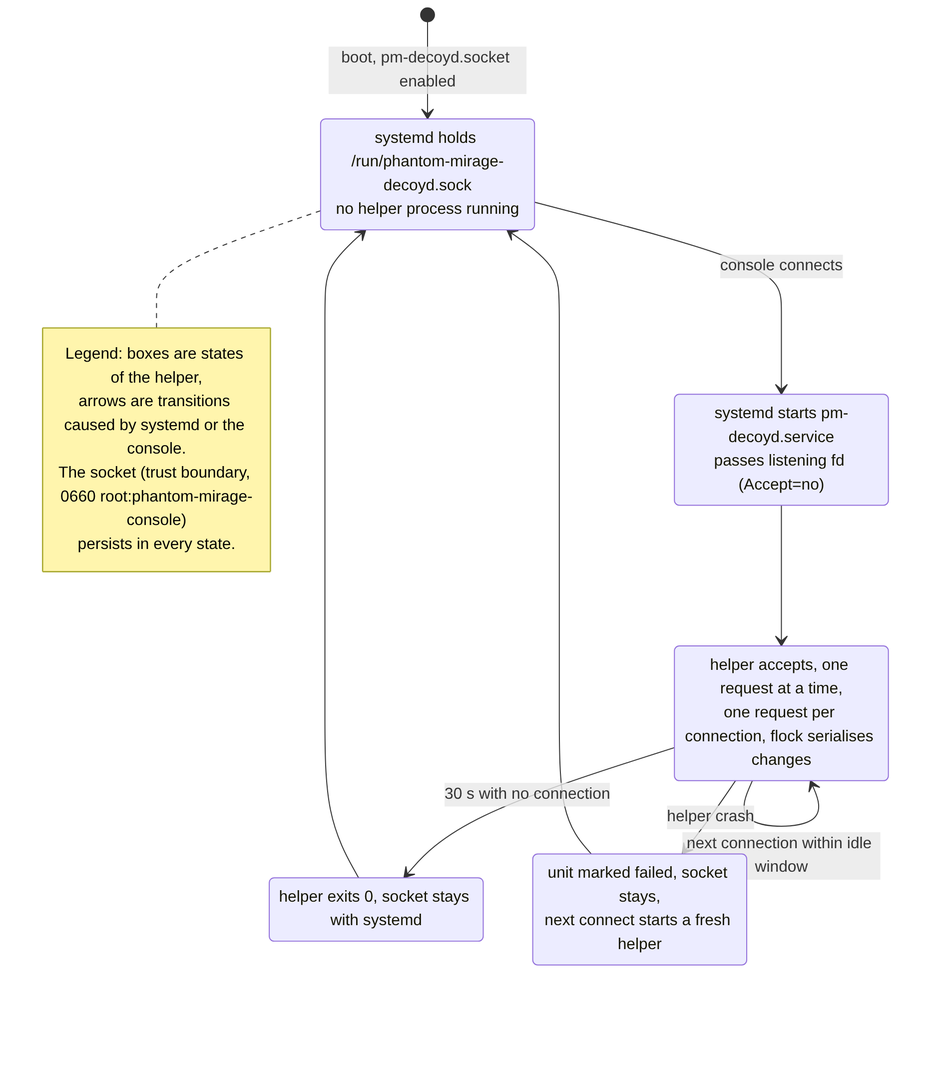
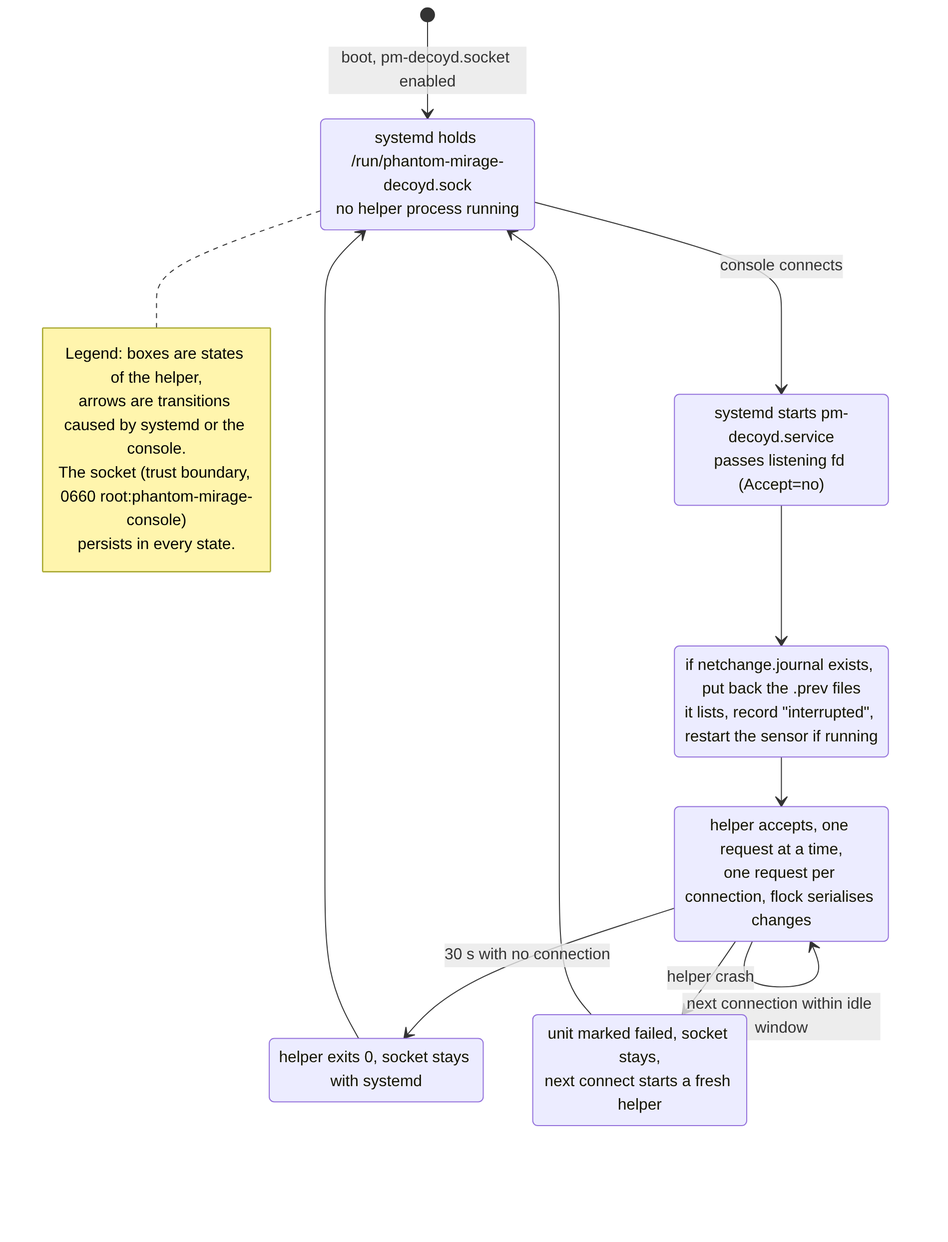
Decoy design: update to PR 256 head 55c914d
Match the doc to the code at 55c914d: the delete op is now reset,
E_RATE_LIMIT is gone and changes queue up to 10 s, the firewall is
reloaded (not restarted) after the sensor, then farpd, each only if
active. Document the netchange journal and outcome record, last_change
in netinfo, the 5 minute wait in the UI, recovery by removing
decoys.json, daemon-reload when a unit needs it, and the console logo
changes. Record one manual real host test by the project owner. Update
diagrams 01, 03, 05, 06 and 07, the test plan and open questions.

diff --git a/docs/design/decoy-management.md b/docs/design/decoy-management.md
@@ -1,12 +1,12 @@
 # Decoy management from the console: design
 
-**Status.** Design document, updated to match the code on branch feat/decoy-settings (draft PR 256, head 8a4cbe6, not merged). Where this document says "implemented", it means implemented on that branch only. Nothing here is on master. Each section says what is built, what is tested offline, and what has not been tried on a real systemd host.
+**Status.** Design document, updated to match the code on branch feat/decoy-settings (draft PR 256, head 55c914d, not merged). Where this document says "implemented", it means implemented on that branch only. Nothing here is on master. Each section says what is built, what is tested offline, and what has not been tried on a real systemd host.
 
 Labels used below:
 
 - **Implemented (PR 256)**: the code exists on feat/decoy-settings, draft PR 256, not merged.
-- **Tested offline**: covered by unit or shell tests that run without systemd, using a fake `systemctl`, a fake daemon and temp directories. I ran these tests on PR 256 head 8a4cbe6: decoyd/tests 56 tests pass (3 skipped), console/tests 137 tests pass, ci/test_decoys_include.sh and ci/test_decoyd_socket.sh pass.
-- **Untested on a real host**: nothing in PR 256 has been seen working under real systemd, with a real socket, real reload or restart, or on a real LAN.
+- **Tested offline**: covered by unit or shell tests that run without systemd, using a fake `systemctl`, a fake daemon and temp directories. I ran these tests on PR 256 head 55c914d: decoyd/tests 65 tests pass (3 skipped), console/tests 141 tests pass, ci/test_decoys_include.sh and ci/test_decoyd_socket.sh pass.
+- **Untested on a real host**: not tried under real systemd, with a real socket, real reload or restart, or on a real LAN. The one exception is a single manual test by the project owner, described in section 9; it is not a test matrix.
 - **Not started**: no code yet.
 
 ## In short
@@ -18,7 +18,9 @@ Labels used below:
 - If a change would break the sensor, the helper refuses it, or puts the old files back and restarts the sensor.
 - A decoy change reloads all decoys, so anyone connected to any decoy at that moment is cut off. An address block change restarts the whole sensor.
 - Deleting a decoy is not started. It is a later slice.
-- All of this passes its offline tests. None of it has been tried on a real sensor host yet.
+- An address block change restarts the sensor, then reloads the firewall (it no longer restarts it, which dropped the console) and restarts farpd, each only if running. If the browser loses the connection, the console waits up to 5 minutes and then shows whether the change was applied or rolled back.
+- If decoys.conf was edited by hand, the console refuses to overwrite it and tells you to run `sudo rm /var/lib/phantom-mirage/decoys.json` on the sensor.
+- All of this passes its offline tests. One manual test by the project owner on one test machine changed the address block and the sensor came up. Nothing else has been tried on a real sensor host.
 
 ## 1. Overview (plain words)
 
@@ -39,7 +41,7 @@ Labels used below:
 - You no longer need to edit files on the sensor for these tasks.
 - Every change asks for your password again.
 - A decoy change takes a few seconds and reloads every decoy, cutting any connection open to any decoy at that moment.
-- An address block change restarts the sensor, and restarts farpd and the firewall if they are running. Settings for decoys that fall outside the new block are dropped, and the console tells you which.
+- An address block change restarts the sensor, and then reloads the firewall and restarts farpd if they are running. Settings for decoys that fall outside the new block are dropped, and the console tells you which.
 - A stopped decoy goes quiet, but other machines can still see that something owns the address.
 
 **What does not change.**
@@ -109,7 +111,7 @@ flowchart TB
   HLP -- "8 systemctl reload (decoy ops)<br/>restart (set_network)" --> SD
   SD -- "9 HUP or restart" --> PM
   SD -- "set_network: restart if active" --> FARP
-  SD -- "set_network: restart if active" --> FW
+  SD -- "set_network: reload if active" --> FW
   HLP -- "10 JSON reply" --> CON
   classDef priv fill:#fde2e2,stroke:#b00
   classDef low fill:#e2f0fd,stroke:#036
@@ -139,6 +141,8 @@ Source: [img/src/01-architecture.mmd](img/src/01-architecture.mmd)
 | `/usr/share/phantom-mirage/decoy-services.json` | 25 services, each an id, label, proto, port and a plain action `open`. No scripts. | Implemented (PR 256) |
 | `/var/lib/phantom-mirage/decoys.json` | Helper store: `{v:1, overrides:{ip:{rev, state, decoy}}, conf_sha256}`, root 0600 | Implemented (PR 256) |
 | `/etc/phantom-mirage/decoys.conf` | Generated from the store, root 0644, with `decoys.conf.prev` kept | Implemented (PR 256) |
+| `/var/lib/phantom-mirage/netchange.journal` | Written by set_network after the `.prev` copies and before the first file is replaced; lists each file, whether it existed and its mode; removed when the change ends. If found at helper start or at the start of any change, the listed files are put back from `.prev` (or removed if they did not exist), the outcome `interrupted` is recorded and the sensor restarted if active. Paths outside the four fixed files are refused. Mode 0600. | Implemented (PR 256), tested offline |
+| `/var/lib/phantom-mirage/netchange.last` | Outcome of the last set_network: `id`, `result` (applied, applied_not_running, rolled_back, rollback_failed, interrupted), `network`, `interface`, `previous`, `dropped`, `time`. Returned by netinfo as `last_change`. Not written when a change is refused before any file changes. Mode 0644. | Implemented (PR 256), tested offline |
 
 ### Trust boundaries
 
@@ -153,7 +157,7 @@ Source: [img/src/01-architecture.mmd](img/src/01-architecture.mmd)
 Two things differ from the first draft of this design:
 
 - There is **no** `PrivateNetwork`, and `CAP_NET_RAW` is kept, because `--verify-config` opens the interface. Network access is limited by `IPAddressDeny=any` instead.
-- `/etc/default` is writable as a whole directory, because set_network rewrites `/etc/default/phantom-mirage` and maybe `/etc/default/farpd`.
+- `/etc/default` is writable as a whole directory, because set_network rewrites `/etc/default/phantom-mirage` and maybe `/etc/default/farpd`. This was already in the unit at 8a4cbe6; it is not new in 55c914d.
 
 Whether this unit can really run `systemctl reload` and `restart`, and open the interface for verify, under these settings has **not** been checked on a real host.
 
@@ -165,7 +169,7 @@ The main config keeps its hand written templates and binds and gains one line, `
 - **Stopped:** template `pm_s_<ip>` with `default tcp`, `udp` and `icmp action block` and no personality and no ports.
 - Then `bind <ip> <template>`.
 
-The helper keeps the sha256 of the text it last wrote. If decoys.conf on disk no longer matches, every change except reset_all is refused with `E_CONFLICT` until you reset all overrides.
+The helper keeps the sha256 of the text it last wrote. If decoys.conf on disk no longer matches, every change except reset_all (and set_network too) is refused with `E_CONFLICT`. The message tells you to drop the hand edits and all console decoy settings by running `sudo rm /var/lib/phantom-mirage/decoys.json` on the sensor and trying again. With no store there is no hash to compare, so the next change rewrites decoys.conf. reset_all also clears the conflict but is still not in the console UI.
 
 ## 4. Data flow diagrams
 
@@ -217,9 +221,10 @@ flowchart TD
   B -- no --> X1["E_PEER, nothing written"]
   B -- yes --> C{"Envelope, replay,<br/>lock within 25 s?"}
   C -- no --> X2["E_BAD_JSON / E_REPLAY / E_BUSY ...<br/>nothing written"]
-  C -- yes --> W["Wait out the 10 s gap<br/>since the last reload"]
+  C -- yes --> RJ["Recover an interrupted address block<br/>change if netchange.journal exists"]
+  RJ --> W["Queue: wait out the rest of the 10 s gap<br/>since the last reload (at most 10 s)"]
   W --> CF{"decoys.conf hash<br/>matches store?"}
-  CF -- no --> X5["E_CONFLICT, reset all to continue"]
+  CF -- no --> X5["E_CONFLICT (not for reset_all):<br/>message says sudo rm decoys.json"]
   CF -- yes --> D{"Op and field<br/>validation ok?"}
   D -- no --> X3["E_INVALID_* / E_ADDRESS_* / E_CONFLICT,<br/>nothing written"]
   D -- yes --> E["Render decoys.conf.new"]
@@ -297,7 +302,9 @@ stateDiagram-v2
   Listening: systemd holds /run/phantom-mirage-decoyd.sock<br/>no helper process running
   Listening --> Starting: console connects
   Starting: systemd starts pm-decoyd.service<br/>passes listening fd (Accept=no)
-  Starting --> Serving
+  Starting --> Recovering
+  Recovering: if netchange.journal exists, put back the .prev files<br/>it lists, record "interrupted", restart the sensor if running
+  Recovering --> Serving
   Serving: helper accepts, one request at a time,<br/>one request per connection, flock serialises changes
   Serving --> Serving: next connection within idle window
   Serving --> Exiting: 30 s with no connection
@@ -328,32 +335,43 @@ sequenceDiagram
   actor U as Admin (browser)
   participant C as Console (phantom-mirage-console)
   participant H as pm-decoyd (root, via socket)
-  participant F as Files (/etc/default, /etc/phantom-mirage, decoys.json)
+  participant F as Files (/etc/default, /etc/phantom-mirage, /var/lib/phantom-mirage)
   participant P as phantom-mirage.service
-  participant X as farpd + firewall units
+  participant X as firewall + farpd units
   Note over U,X: Legend: trust boundaries are browser | console (low privilege) | socket + helper (root) | files | sensor units. Solid arrow = request or action, dashed arrow = response. Example block 192.0.2.0/28 is a documentation range. The real helper accepts private ranges only.
   U->>C: Network section: new block, interface, password
-  C->>C: session, CSRF, password check with back off, audit "requested"
+  C->>C: session, CSRF, password check with back off, audit "requested", remember pending change in the browser
   C->>H: set_network {network, interface, expect:{network, interface}} (240 s timeout)
-  H->>H: peer uid, envelope, flock, 10 s gap
+  H->>H: peer uid, envelope, flock (25 s), recover journal if present, queue up to 10 s
   H->>F: read NETWORK and INTERFACE, compare with expect (else E_CONFLICT)
   H->>H: ip -j -4 addr / route: interfaces, LANs, gateways
   H->>H: check block: CIDR, at most /24, private, on LAN of interface,<br/>no own address, no gateway, no LAN network or broadcast
   H->>H: drop overrides outside the new block, render decoys.conf
-  H->>F: rewrite NETWORK= and INTERFACE= lines (farpd file only with setup marker)
   H->>H: --verify-config with new interface and block (else E_VERIFY_FAILED, nothing written)
-  H->>F: keep .prev of every file, replace each file
+  H->>F: keep .prev of every file, write netchange.journal, replace each file
   alt sensor not active
-    H->>X: restart firewall (and farpd if rewritten) only if active
+    H->>F: remove journal, write netchange.last "applied_not_running"
+    H->>X: reload firewall, then restart farpd if rewritten, each only if active
     H-->>C: ok, restarted:false, sensor left stopped
   else sensor active
+    H->>H: daemon-reload only if a unit reports NeedDaemonReload
     H->>P: systemctl restart phantom-mirage
     H->>P: active within 20 s, then active after 3 s settle
-    H->>X: restart firewall (and farpd if rewritten) only if active
+    H->>F: remove journal, write netchange.last "applied"
+    H->>X: reload firewall (never restart, the console Requires it), then restart farpd if rewritten, each only if active
     H-->>C: ok, network, interface, dropped, warnings
   end
-  C->>C: audit "applied, dropped settings for ..."
-  C-->>U: new block shown
+  alt reply arrives
+    C->>C: audit "applied, dropped settings for ..."
+    C-->>U: new block shown
+  else connection lost (no status, 502, 503, 504, E_TIMEOUT, E_UNAVAILABLE)
+    loop every 3 s, at most 5 minutes
+      U->>C: GET /api/decoyd/netinfo
+      C->>H: netinfo
+      H-->>C: last_change from netchange.last
+    end
+    C-->>U: applied, rolled back, rollback failed or interrupted, read from last_change
+  end
 ```
 
 ![06-set-network](img/06-set-network.png)
@@ -367,30 +385,32 @@ Implemented (PR 256). Offline tests check that a failed restart puts every file 
 ```mermaid
 flowchart TD
   A(["set_network passed every check<br/>and --verify-config"]) --> B["Keep .prev of /etc/default/phantom-mirage,<br/>decoys.conf, decoys.json, farpd file if marked"]
-  B --> C{"All files replaced?"}
-  C -- "no (OSError)" --> R0["Restore every file,<br/>E_INTERNAL, nothing changed"]
+  B --> J["Write netchange.journal<br/>(list of files)"]
+  J --> C{"All files replaced?"}
+  C -- "no (OSError)" --> R0["Restore every file, remove journal,<br/>E_INTERNAL, nothing changed"]
   C -- yes --> SA{"Sensor was active?"}
-  SA -- no --> OK0["Restart firewall and farpd if active,<br/>ok, sensor left stopped"]
-  SA -- yes --> D["systemctl restart phantom-mirage"]
+  SA -- no --> OK0["Remove journal, record applied_not_running,<br/>reload firewall then restart farpd if active,<br/>ok, sensor left stopped"]
+  SA -- yes --> DR["daemon-reload if a unit<br/>needs it"]
+  DR --> D["systemctl restart phantom-mirage"]
   D --> E{"rc 0, active within 20 s,<br/>still active after 3 s?"}
-  E -- yes --> OK1["Restart firewall and farpd if active<br/>(failure is a warning), ok"]
-  E -- no --> F["Restore EVERY file first<br/>(old block, old decoys, old store)"]
+  E -- yes --> OK1["Remove journal, record applied,<br/>reload firewall then restart farpd if active<br/>(failure is a warning), ok"]
+  E -- no --> F["Restore EVERY file first<br/>(old block, old decoys, old store),<br/>remove journal"]
   F --> G["systemctl restart phantom-mirage"]
-  G --> AUX["Restart firewall and farpd if active"]
-  AUX --> H{"Active within 20 s?"}
-  H -- yes --> N["E_RESTART_FAILED_ROLLED_BACK,<br/>old block serving"]
-  H -- no --> O["E_ROLLBACK_FAILED,<br/>sensor DOWN, see journal"]
+  G --> H{"Active within 20 s?"}
+  H -- yes --> N["Record rolled_back, reload firewall then<br/>restart farpd if active,<br/>E_RESTART_FAILED_ROLLED_BACK"]
+  H -- no --> O["Record rollback_failed, same aux step,<br/>E_ROLLBACK_FAILED, sensor DOWN"]
+  K(["Helper killed mid swap"]) --> KR["Next helper start or next change:<br/>journal found, put back .prev files,<br/>record interrupted, restart sensor if active"]
   classDef bad fill:#fde2e2,stroke:#b00
   classDef good fill:#e3f6e3,stroke:#060
   classDef warn fill:#fff4d6,stroke:#a60
-  class R0,N warn
+  class R0,N,KR warn
   class O bad
   class OK0,OK1 good
   subgraph LEG["Legend"]
     LG1["Green: new block applied"]:::good
-    LG2["Amber: rolled back, old block in place"]:::warn
+    LG2["Amber: rolled back or recovered, old block in place"]:::warn
     LG3["Red: sensor down, manual action needed"]:::bad
-    LG4["Every box runs in the root helper behind the socket trust boundary.<br/>Arrows: order of steps, labelled with the outcome."]
+    LG4["Every box runs in the root helper behind the socket trust boundary.<br/>Arrows: order of steps, labelled with the outcome.<br/>Outcome records go to netchange.last, read by netinfo as last_change."]
   end
 ```
 
@@ -419,16 +439,16 @@ Reply: `{"v":1, "id", "ok":true|false, "reloaded":bool, "rolled_back":bool, "res
 |---|---|---|---|
 | `list` | none | `network`, and one entry per address with `source` override, default or main_conf | Implemented |
 | `options` | none | personalities, states, services (id, label, proto, port), `max_ports` 64 | Implemented |
-| `netinfo` | none | current network and interface, interfaces with addresses, gateways, `min_prefix` 24 | Implemented |
+| `netinfo` | none | current network and interface, interfaces with addresses, gateways (each listed once, sorted), `last_change` (the outcome record or null), `min_prefix` 24 | Implemented |
 | `add` | `decoy` | `ip`, `state` running, `rev` 1 | Implemented |
 | `edit` | `decoy`, `expect_rev` (required) | new `rev` | Implemented |
 | `stop` | `ip`, `expect_rev` if an override exists | `state` stopped, `arp` "still_answered" | Implemented |
 | `start` | `ip`, `expect_rev` | running; a stop on a default decoy is simply removed | Implemented |
-| `delete` | `ip`, `expect_rev` | removes the override so the address is back on the default template | Implemented as "reset to default" only, see note |
+| `reset` | `ip`, `expect_rev` | removes the override so the address is back on the default template | Implemented (renamed from `delete` in f09ce88) |
 | `reset_all` | `confirm` = "reset-all" | `overrides` 0 | Implemented in the helper; not exposed in the console UI as far as I could see |
 | `set_network` | `network`, `interface`, `expect:{network, interface}` | `network`, `interface`, `dropped`, `farpd`, `restarted`, maybe `warnings` | Implemented |
 
-**Note on `delete`.** The helper op called `delete` removes a decoy's own settings. The console uses it for the "Use default template" button. It does **not** take an address out of service. Deleting a decoy in that sense is not started (section 10). The op name is confusing and is listed as an open question.
+**Note on `reset`.** The op formerly called `delete` is now `reset` in the helper, the client and the console. The console uses it for the "Use default template" button. It does **not** take an address out of service. There is no `delete` op any more; deleting a decoy in that sense is not started (section 10).
 
 A `decoy` object has exactly `ip`, `personality` (a name or null), `defaults` `{tcp, udp, icmp}` and `ports`, a list of `{proto, port, state}` or `{proto, port, service}`.
 
@@ -438,7 +458,7 @@ A `decoy` object has exactly `ip`, `personality` (a name or null), `defaults` `{
 |---|---|---|
 | Transport (client side) | `E_UNAVAILABLE`, `E_TIMEOUT`, `E_BAD_REPLY` | 503 |
 | Envelope | `E_PEER` (500), `E_BAD_JSON`, `E_VERSION`, `E_UNKNOWN_FIELD`, `E_MISSING_FIELD`, `E_TYPE`, `E_REPLAY`, `E_UNKNOWN_OP` | 400 unless shown |
-| Queue | `E_BUSY` (lock not free within 25 s), `E_RATE_LIMIT` | 429 |
+| Queue | `E_BUSY` (lock not free within 25 s) | 429 |
 | Decoy validation | `E_INVALID_ADDRESS`, `E_ADDRESS_OUTSIDE_NETWORK`, `E_ADDRESS_RESERVED`, `E_ADDRESS_IN_MAIN_CONF`, `E_INVALID_PERSONALITY`, `E_INVALID_STATE`, `E_INVALID_PORT`, `E_INVALID_SERVICE`, `E_TOO_MANY_PORTS` | 400 |
 | State | `E_CONFLICT`, `E_EXISTS`, `E_NOT_FOUND`, `E_NOT_RUNNING`, `E_NOT_STOPPED`, `E_UNCHANGED` | 409 |
 | Network validation | `E_INVALID_NETWORK`, `E_NETWORK_TOO_WIDE`, `E_NOT_PRIVATE`, `E_INVALID_INTERFACE`, `E_NOT_ON_LAN`, `E_HOST_ADDRESS`, `E_GATEWAY`, `E_LAN_EDGE` | 400 |
@@ -446,7 +466,7 @@ A `decoy` object has exactly `ip`, `personality` (a name or null), `defaults` `{
 
 The console itself answers 403 for a wrong password, 423 while backing off after wrong passwords, and 400 `E_ADDRESS_RESERVED` for a network or broadcast address.
 
-`E_RATE_LIMIT` is only raised if the wait would exceed 25 s. With a 10 s gap the helper normally just waits, so in practice it should not appear.
+`E_RATE_LIMIT` is removed from the helper, the console status mapping and the UI messages. A change that comes within 10 s of the last reload now waits out the rest of that gap, never more than 10 s even if the clock moved back. This 10 s is on top of the wait for the lock, which can still take up to 25 s and give `E_BUSY`.
 
 ## 6. Validation rules (as coded)
 
@@ -471,7 +491,7 @@ Documentation example addresses (192.0.2.0/24, 198.51.100.0/24, 203.0.113.0/24) 
 
 ## 7. Failure handling and rollback
 
-Decoy changes (section 4.2)
+Decoy changes (section 4.2). Before anything else, a leftover `netchange.journal` is recovered (section 3) and the 10 s queue wait runs.
 
 1. Write `decoys.conf.new` with `O_EXCL|O_NOFOLLOW`, fsync.
 2. Verify: copy the main config to `/etc/phantom-mirage/.pm-decoyd-verify.conf` with its one include line pointing at `.new`, then run `phantom-mirage --verify-config -f <temp> -p columbo-v1.db` with the same data files and interface and block. Failure deletes `.new` and gives `E_VERIFY_FAILED` with the parser's first useful line.
@@ -483,12 +503,15 @@ Decoy changes (section 4.2)
 Address block change (section 4.6)
 
 1. All checks and `--verify-config` with the new interface and block run before any file is written.
-2. Keep `.prev` of `/etc/default/phantom-mirage`, decoys.conf, decoys.json and the farpd file if it is rewritten, then replace each. A write error restores all files and gives `E_INTERNAL`.
-3. A stopped sensor is left stopped. The firewall and farpd are restarted only if active.
-4. Otherwise restart the sensor, wait up to 20 s for active and check again after 3 s. Then restart the firewall and farpd if active; failures there are warnings.
-5. On failure restore **every** file first, then restart the sensor and the helper units, giving `E_RESTART_FAILED_ROLLED_BACK` or `E_ROLLBACK_FAILED`.
+2. Keep `.prev` of `/etc/default/phantom-mirage`, decoys.conf, decoys.json and the farpd file if it is rewritten, write `netchange.journal`, then replace each. A write error restores all files, removes the journal and gives `E_INTERNAL` (no outcome is recorded for this case).
+3. A stopped sensor is left stopped; the outcome `applied_not_running` is recorded.
+4. Otherwise run `systemctl daemon-reload` if the sensor or firewall unit reports `NeedDaemonReload=yes` (the helper never writes unit files; this covers a unit changed on disk without a reload), restart the sensor, wait up to 20 s for active and check again after 3 s. The outcome `applied` is recorded.
+5. On failure restore **every** file first, remove the journal, restart the sensor, wait up to 20 s, and record `rolled_back` or `rollback_failed`, giving `E_RESTART_FAILED_ROLLED_BACK` or `E_ROLLBACK_FAILED`.
+6. In every case above after the swap, the aux step runs: the firewall is **reloaded** (`ExecReload` runs `pm-firewall apply`) and then farpd is restarted if its file was rewritten, each only if it is already active. Failures there are warnings. The firewall is not restarted because `phantom-mirage-console.service` has `Requires=phantom-mirage-firewall.service`, so a restart also restarted the console and cut the request and every session.
 
-The file swap is a series of single file renames, not one atomic step across files. A crash part way through could leave a mix; `.prev` copies are there for manual recovery. This has not been tested.
+The daemon-reload check runs only before the first restart in step 4. It does not run before a decoy reload, before the rollback restart, or for the farpd unit.
+
+The file swap is still a series of single file renames, not one atomic step. A crash part way through is now covered by the journal: the next helper start or change puts the `.prev` set back and records `interrupted`. Journal recovery restarts only the sensor, not the firewall or farpd. This is tested offline only (a simulated crash mid swap).
 
 ## 8. Threat model
 
@@ -499,31 +522,41 @@ The file swap is a series of single file renames, not one atomic step across fil
 | Injection into config | Template names built from the address; personality and actions checked against fixed lists; only `NETWORK=` and `INTERFACE=` lines rewritten with validated values | A malicious entry in the service list or personality file would be used; both are root owned and the db is sha256 pinned. |
 | Symlink and race on swap | `O_EXCL|O_NOFOLLOW`, rename in the same directory, refuses non root owned or symlinked config | `/etc/default` is writable to the helper as a whole directory. |
 | Socket permissions | 0660 root:phantom-mirage-console, `SO_PEERCRED` | Anything running as the console user is trusted the same. |
-| Denial of service by reloads | flock, 10 s gap between reloads | The console can still reload every 10 s or restart the sensor with set_network. |
+| Denial of service by reloads | flock, changes queue behind a 10 s gap between reloads | The console can still reload every 10 s or restart the sensor with set_network. |
 | Replay | `ts` window 60 s, `id` kept 600 s on /run, `expect_rev` and `expect` | Mainly stops double submits. |
 | Address block moved onto live hosts | Must be private, at most /24, on the LAN of the interface, no own address, no gateway, no LAN edge | **No probe for other live hosts in the new block.** farpd would answer ARP for them. This is the biggest open risk of set_network. |
 | Bad config takes sensor down | Verify first, health check, restore before restart | If the restored files also fail, the sensor stays down: `E_ROLLBACK_FAILED`. |
-| Manual edit of decoys.conf | Hash check, `E_CONFLICT` until reset_all | reset_all is not in the console UI, so recovery needs the shell. |
+| Manual edit of decoys.conf | Hash check, `E_CONFLICT`; the message names `sudo rm /var/lib/phantom-mirage/decoys.json` | Recovery needs a shell on the sensor and drops every console decoy setting, not only the hand edits. |
 | Audit gaps | Console audit requested, applied or refused, with dropped addresses; helper logs request, decision and diff to syslog | Console audit can be altered by a compromised console; the journal copy is stronger. |
 
 ## 9. Test plan and what has been run
 
-Run offline on PR 256 head 8a4cbe6 (by me, for this update)
+Run offline on PR 256 head 55c914d (by me, for this update)
 
-- `python3 -m unittest discover -s decoyd/tests`: 56 tests, all pass, 3 skipped. The 3 skipped are `TestRealVerify` (golden output passes, bad personality fails, duplicate bind fails) which need root and the built daemon. CI in PR 256 runs them with `PM_REAL_DAEMON`; I did not see a CI result.
-- `python3 -m unittest discover -s console/tests`: 137 tests pass, including password re-entry, CSRF, set_network, the longer timeout, wrong password back off, and the reserved rows without icons.
+- `python3 -m unittest discover -s decoyd/tests`: 65 tests, all pass, 3 skipped. The 3 skipped are `TestRealVerify` which need root and the built daemon. New tests cover the outcome record and `last_change`, rolled back and failed outcomes, no outcome on refusal, daemon-reload only when stale, gateways listed once, queueing behind the interval, firewall then farpd order, crash mid swap recovered on the next change, journal refusing foreign paths, and no journal left after success or rollback.
+- `python3 -m unittest discover -s console/tests`: 141 tests pass, including the `reset` op, `last_change` after a change, and the UI reading the outcome after a lost connection (simulated).
 - `ci/test_decoys_include.sh` and `ci/test_decoyd_socket.sh`: pass.
+- Forge reports CI green on f09ce88, 4d65ef0 and 55c914d. I did not open the CI runs myself.
 
-What the offline tests cover: validation tables, envelope and replay, rendering, the decoy change pipeline and its rollbacks, network validation, set_network success and rollback, socket peer checks with a socket pair. All with a fake `systemctl`, fake `ip` output and a fake daemon.
+What the offline tests cover: validation tables, envelope and replay, rendering, the decoy change pipeline and its rollbacks, network validation, set_network success, rollback, outcome record and journal recovery, socket peer checks with a socket pair. All with a fake `systemctl`, fake `ip` output and a fake daemon.
+
+One manual test on a real host (reported by the project owner, not repeated by me)
+
+- On one test machine the project owner changed the address block from the console (for example from 192.0.2.0/28 to 192.0.2.16/28; the real addresses are not given here). The change applied and the sensor came up on the new block.
+- During that change the console dropped. That was the firewall restart taking the console with it; the code now reloads the firewall instead. The fixed version has not been retested on a real host as far as I know.
+- This is one manual run of one path. It is not a real systemd test matrix.
 
 Still needed, only on a real systemd host
 
 - Socket activation, socket owner and mode, `SO_PEERCRED` from the real console user, idle exit.
-- Whether the hardened unit can call `systemctl reload` and `restart` and open the interface for verify.
-- Real reload and real restart, including `ExecStartPre` checks during rollback.
+- Whether the hardened unit can call `systemctl reload`, `restart` and `daemon-reload` and open the interface for verify. The one manual run suggests restart works for set_network; nothing else is shown.
+- Real decoy reload and its rollback, and real restart rollback, including `ExecStartPre` checks.
+- Firewall reload keeping the console and its sessions up during set_network (the fix after the manual test).
+- The console's 5 minute wait after a lost connection, against a real restart.
+- Journal recovery after a real crash or kill mid swap.
 - Stopped decoy behaviour on a real LAN: no reply while a neighbour answers, ARP still answered.
-- set_network on a real host: farpd and firewall restart, ARP for the new block, old block released.
-- Package install and upgrade: the include line and the socket enable on a real system. PR 256 adds package content checks to CI; I did not see a result.
+- farpd restart and ARP for the new block, old block released.
+- Package install and upgrade: the include line and the socket enable on a real system.
 
 ## 10. Build slices
 
@@ -532,8 +565,9 @@ Still needed, only on a real systemd host
 | 1 Read only groundwork | Personality list, per decoy detail panel, `parse_decoys` keeps port states | Implemented (PR 256) |
 | 2 Helper and include | pm-decoyd, socket and service units, include script, service list | Implemented (PR 256), tested offline |
 | 3 Stop and start | Stop and Start icons per row; none on network and broadcast rows | Implemented (PR 256), tested offline |
-| 4 Settings panel | Personality, default actions, port table, "Use default template" | Implemented (PR 256), tested offline |
-| 5 Network section | Change address block and interface (set_network) | Implemented (PR 256), tested offline |
+| 4 Settings panel | Personality, default actions, port table, "Use default template" (op `reset`). The panel note now says the address block is changed in the Network section, and that addresses bound in phantom-mirage.conf are changed there. | Implemented (PR 256), tested offline |
+| 5 Network section | Change address block and interface (set_network), outcome after a lost connection | Implemented (PR 256), tested offline, one manual real host run |
+| Console look (55c914d) | Product logo wordmark (vector, follows the theme) in the header and on the sign in page, MIRAGE centred in the sidebar, gateways listed once | Implemented (PR 256), tested offline (branding tests) |
 | 6 Delete a decoy | Take an address out of service | **Not started.** Later slice, one change at a time. |
 
 Every slice still needs security review sign off and a real host test before merge.
@@ -553,15 +587,19 @@ Decided
 Still open
 
 1. **Delete a decoy**: what it means (stop and hide, remove from the block, or shrink the block) and when. Not started.
-2. **Name of the `delete` op**: it only resets a decoy to default. Rename it (for example to `reset`) before a real delete exists?
-3. **Live host probe for set_network**: there is no check that the new block is free of real hosts.
-4. **Wide and multiple blocks**: the console allows one private block of /24 or smaller only. Should `ALLOW_WIDE_NETWORK` ever be offered?
-5. **reset_all in the UI**: the only way out of `E_CONFLICT` is reset_all, which the console UI does not offer.
-6. **`/etc/default` write access**: the helper can write the whole directory. Could it be narrowed to the two files?
-7. **Multi file swap**: not atomic across files.
-8. **Display label** for a decoy.
+2. **Live host probe for set_network**: there is no check that the new block is free of real hosts.
+3. **Wide and multiple blocks**: the console allows one private block of /24 or smaller only. Should `ALLOW_WIDE_NETWORK` ever be offered?
+4. **Recovery from a hand edited decoys.conf**: `sudo rm decoys.json` drops every console setting. Is a gentler path wanted, for example reset_all in the UI?
+5. **`/etc/default` write access**: the helper can write the whole directory. Could it be narrowed to the two files?
+6. **Journal recovery scope**: it restarts the sensor only, not the firewall or farpd, and a write error before the restart records no outcome.
+7. **Display label** for a decoy.
 
 Resolved since the first draft
 
 - The `parse_decoys` bug on master (it listed every port as `tcp/port` and compared the port number against state names) is **fixed on PR 256**: it now reads the port from `w[4]` and the state from `w[5]`, and adds a `port_states` list. There is also a separate commit "Decoys page shows tcp/22 instead of tcp/port" on the branch.
 - Verify with a temp main config whose include names the candidate file: implemented as described.
+- Name of the `delete` op: renamed to `reset` (f09ce88).
+- `E_RATE_LIMIT`: removed; changes queue for at most 10 s behind the last reload.
+- Recovery from `E_CONFLICT` without reset_all in the UI: the message now names `sudo rm /var/lib/phantom-mirage/decoys.json`.
+- Multi file swap not atomic: still not atomic, but a crash mid swap is now recovered from `netchange.journal`.
+- Console lost during an address block change: the firewall is reloaded, not restarted, and the UI reads the outcome from `last_change`.
